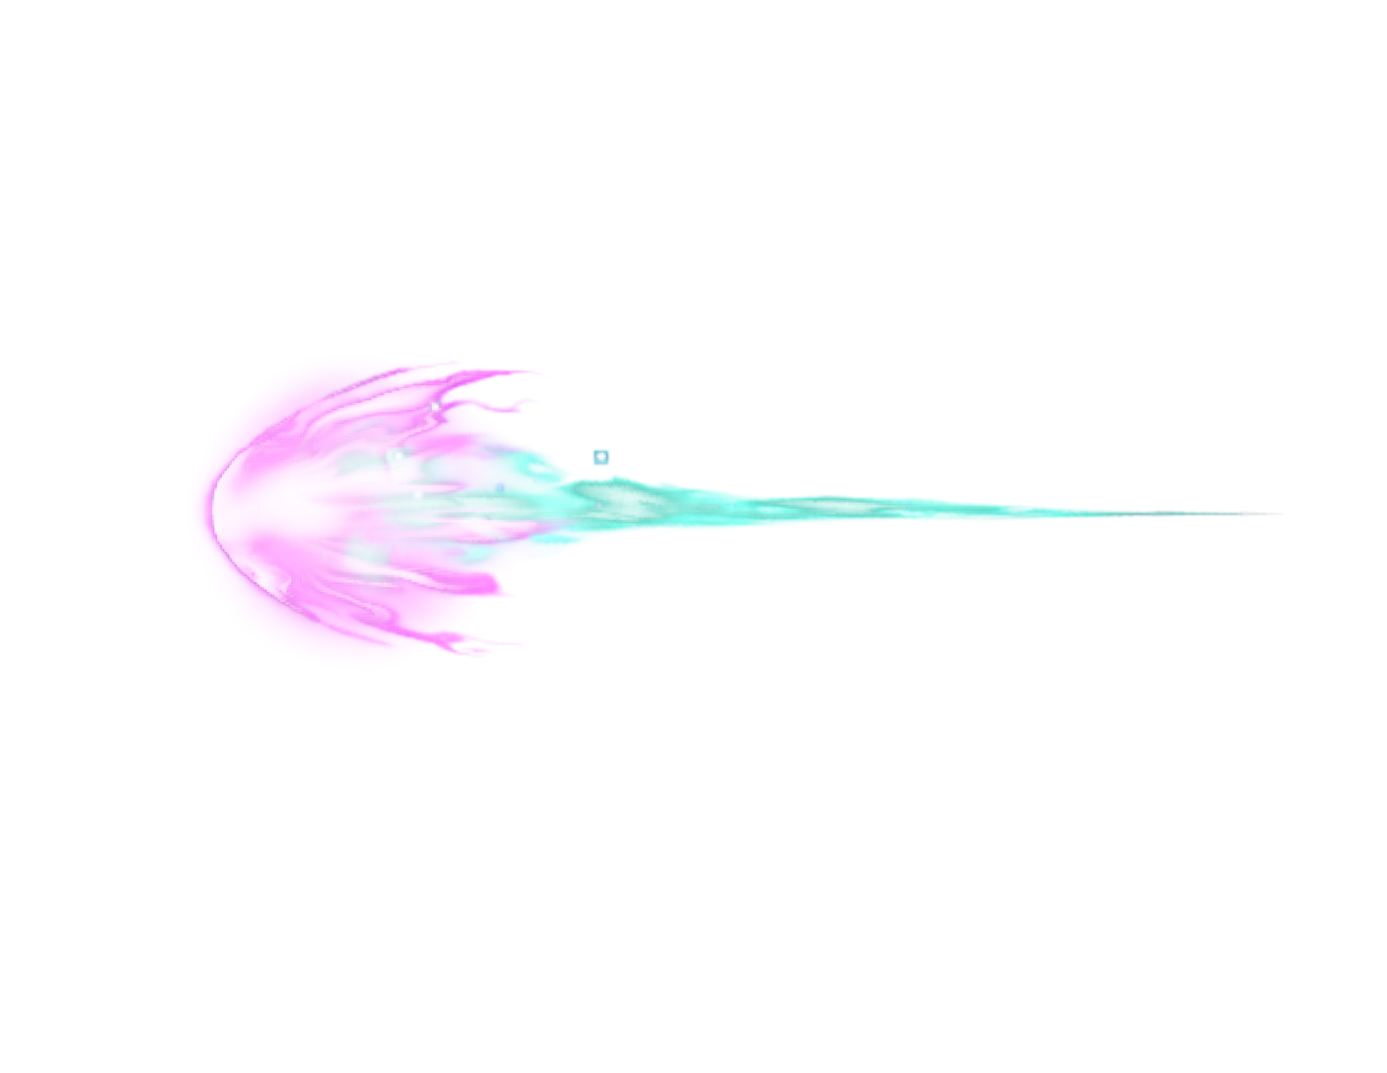
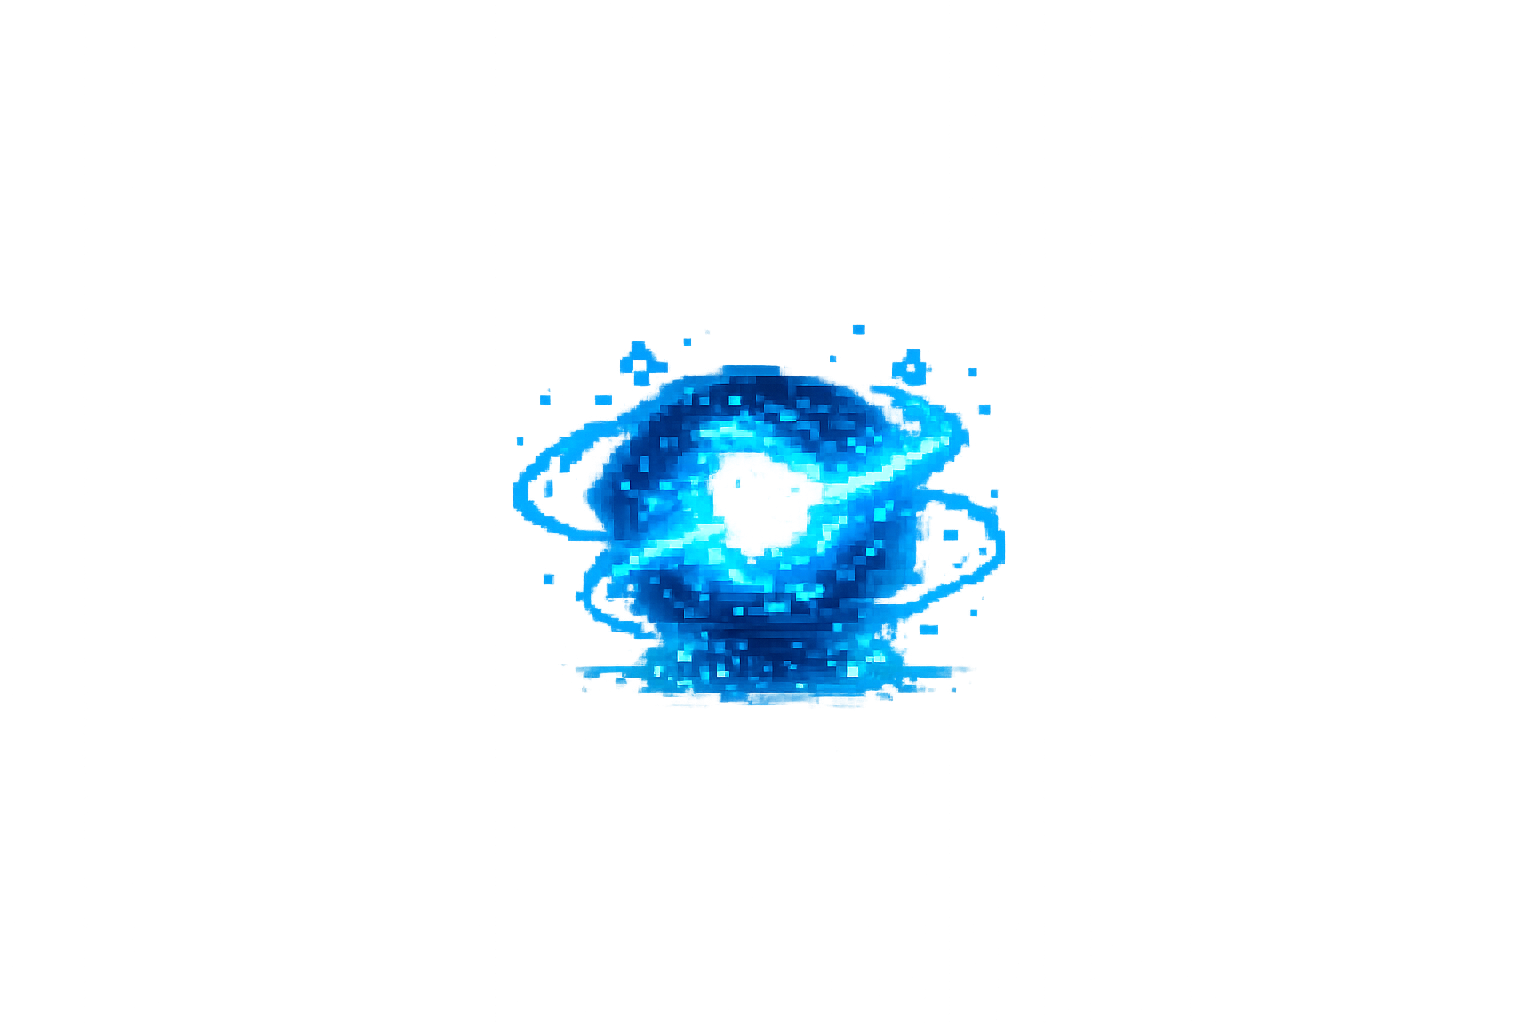
save and load

Changed region(s): [[0.124, 0.3125, 0.8681, 0.6875]]

diff --git a/src/main.cpp b/src/main.cpp
@@ -71,6 +71,21 @@ void drawTitleScreen(Texture2D mainScreen) {
     EndDrawing();
 }
 
+// Ve thong bao tam thoi sau khi save game
+void drawSaveStatusMessage(const char* message, float timer) {
+    if (message == nullptr || timer <= 0.0f) return;
+
+    int fontSize = 36;
+    int textWidth = MeasureText(message, fontSize);
+    int boxWidth = textWidth + 64;
+    int boxHeight = 72;
+    int boxX = (GetScreenWidth() - boxWidth) / 2;
+    int boxY = (GetScreenHeight() - boxHeight) / 2;
+
+    DrawRectangleRounded(Rectangle{(float)boxX, (float)boxY, (float)boxWidth, (float)boxHeight}, 0.25f, 8, Fade(BLACK, 0.72f));
+    DrawText(message, boxX + 32, boxY + 18, fontSize, WHITE);
+}
+
 // Ve phan world ben trong camera cua player
 void drawWorld(Player& player, Texture2D floorTexture, Texture2D wallsTexture, const vector<Entity*>& entities, const vector<Skill*>& skills, const vector<WeaponProjectile>& weaponProjectiles) {
     BeginMode2D(player.getCamera());
@@ -163,7 +178,7 @@ bool drawVictory(WaveManager& waveSystem, vector<Enemy*>& enemies, Player& playe
 void fireEnemyBullets(vector<Enemy*>& enemies, Player& player, vector<Bullet*>& bullets, vector<Entity*>& entities) {
     for (auto e : enemies) {
         if (e->getEnemyType() != 3 || !e->canShoot()) continue;
-        Bullet* bullet = new Bullet(e->getX(), e->getY(), player.getX(), player.getY(), e->getDamage());
+        Bullet* bullet = new Bullet(e->getX(), e->getCollisionCenterY(), player.getX(), player.getY(), e->getDamage());
         bullet->setIsEnemyBullet(true);
         bullets.push_back(bullet);
         entities.push_back(bullet);
@@ -235,6 +250,8 @@ int main() {
         bool gameStarted = false;
         bool showTitleScreen = true;
         const char* saveFile = "savegame.txt";
+        const char* saveStatusMessage = nullptr;
+        float saveStatusTimer = 0.0f;
 
         // Danh sach skill tong va inventory skill dang trang bi
         vector<Skill*> allSkills = {
@@ -262,6 +279,27 @@ int main() {
 
         // Vong lap game chinh
         while (!WindowShouldClose()) {
+        float frameDt = GetFrameTime();
+        if (saveStatusTimer > 0.0f) {
+            saveStatusTimer -= frameDt;
+            if (saveStatusTimer <= 0.0f) {
+                saveStatusTimer = 0.0f;
+                saveStatusMessage = nullptr;
+            }
+        }
+
+        if (IsKeyPressed(KEY_F9)) {
+            if (loadGame(saveFile, player, waveSystem, gameTimer, currentDiffID, shouldShowUpgrade, previousLevel, allWeapons, weaponInventory, currentWeapon, allSkills, skillInventory)) {
+                showTitleScreen = false;
+                gameStarted = true;
+                isPaused = false;
+                saveStatusMessage = "Loaded data !";
+            } else {
+                saveStatusMessage = "Failed to load data !";
+            }
+            saveStatusTimer = 2.5f;
+        }
+
         if (showTitleScreen) {
             if (IsKeyPressed(KEY_SPACE)) showTitleScreen = false;
             drawTitleScreen(mainScreenTexture);
@@ -282,17 +320,12 @@ int main() {
                 if (!gameStarted) continue;
             }
 
-            float dt = GetFrameTime();
+            float dt = frameDt;
 
             if (IsKeyPressed(KEY_F5)) {
-                saveGame(saveFile, player, waveSystem, gameTimer, currentDiffID, allWeapons, weaponInventory, currentWeapon, allSkills, skillInventory);
-            }
-
-            if (IsKeyPressed(KEY_F9)) {
-                if (loadGame(saveFile, player, waveSystem, gameTimer, currentDiffID, shouldShowUpgrade, previousLevel, allWeapons, weaponInventory, currentWeapon, allSkills, skillInventory)) {
-                    gameStarted = true;
-                    isPaused = false;
-                }
+                bool saved = saveGame(saveFile, player, waveSystem, gameTimer, currentDiffID, allWeapons, weaponInventory, currentWeapon, allSkills, skillInventory);
+                saveStatusMessage = saved ? "Saved data !" : "Failed to save data !";
+                saveStatusTimer = 2.5f;
             }
 
             if (updateUpgradeMenu(player, upgradeSystem, allSkills, skillInventory, allWeapons, weaponInventory, currentWeapon, floorTexture, wallsTexture, entities, weaponProjectiles)) continue;
@@ -351,7 +384,7 @@ int main() {
                 float hitboxRadius = waveSystem.getCurrentWaveNumber() == 20 ? 80.0f : 20.0f;
                 for (size_t j = 0; j < bullets.size(); j++) {
                     if (!bullets[j]->getIsEnemyBullet() &&
-                        Vector2Distance({bullets[j]->getX(), bullets[j]->getY()}, {enemies[i]->getX(), enemies[i]->getY()}) < hitboxRadius) {
+                        Vector2Distance({bullets[j]->getX(), bullets[j]->getY()}, {enemies[i]->getX(), enemies[i]->getCollisionCenterY()}) < hitboxRadius) {
                         enemies[i]->getDamage();
                         bullets[j]->setX(-1000);
                     }
@@ -363,7 +396,7 @@ int main() {
 
             // Enemy cham vao player se gay damage contact
             for (auto enemy : enemies) {
-                if (Vector2Distance({player.getX(), player.getY()}, {enemy->getX(), enemy->getY()}) < 30.0f) player.takeDamage(enemy->getDamage());
+                if (Vector2Distance({player.getX(), player.getY()}, {enemy->getX(), enemy->getCollisionCenterY()}) < 30.0f) player.takeDamage(enemy->getDamage());
             }
 
             // Dan enemy trung player se bi xoa khoi scene
@@ -454,6 +487,7 @@ int main() {
 
         DrawText(TextFormat("Score: %d", player.getScore()), 24, 144, 36, WHITE);
         DrawText("F5: Save   F9: Load", 24, 220, 24, LIGHTGRAY);
+        drawSaveStatusMessage(saveStatusMessage, saveStatusTimer);
         // Hien thi wave va thoi gian song sot
         int total = (int)waveSystem.getInternalTimer();
         int waveMins = (int)(total / 60);

diff --git a/src/enemy/Enemy.cpp b/src/enemy/Enemy.cpp
@@ -65,38 +65,47 @@ bool Enemy::canShoot(){
     return false;
 }
 
+float Enemy::getVisualYOffset() const {
+    if (enemyType == 0) return 52.0f;
+    if (enemyType == 1) return 36.0f;
+    if (enemyType == 2) return 78.0f;
+    if (enemyType == 3) return 48.0f;
+    return 0.0f;
+}
+
 void Enemy::draw() {
     if (texture !=nullptr){
         float frameWidth = (float)texture->width / frameCount;
         float renderWidth = 0.0f;
         float renderHeight = 0.0f;
+        float renderYOffset = getVisualYOffset();
         
         if (enemyType == 0) {         // Quái NORMAL
             renderWidth = 120.0f;
-            renderHeight = 200.0f;
+            renderHeight = 235.0f;
         } 
         else if (enemyType == 1) {    // Quái FAST
             renderWidth = 110.0f;
-            renderHeight = 110.0f;
+            renderHeight = 145.0f;
         } 
         else if (enemyType == 2) {    // Quái TANK
             renderWidth = 140.0f;
-            renderHeight = 300.0f;    
+            renderHeight = 345.0f;    
         } 
         else if (enemyType == 3) {    // Quái RANGED
             renderWidth = 120.0f;
-            renderHeight = 180.0f;
+            renderHeight = 220.0f;
         }
         // tạo cấu hình vùng ảnh
         Rectangle source = { frameWidth* 4.0f * currentFrame, 0.0f, frameWidth * rotation, (float)texture->height };
         // tạo cấu hình vùng va chạm
-        Rectangle dest = { x, y, renderWidth, renderHeight };
+        Rectangle dest = { x, y - renderYOffset, renderWidth, renderHeight };
         // thiết lập điểm gốc (tâm hình chữ nhật) để tính góc xoay từ tâm
         Vector2 origin = { renderWidth / 2.0f, renderHeight / 2.0f };
         // Vẽ
         DrawTexturePro(*texture, source, dest, origin, 0.0f, WHITE);
     }
-    DrawText(TextFormat("HP: %d", hp), x - 28, y - 38, 16, WHITE);
+    DrawText(TextFormat("HP: %d", hp), x - 28, y - getVisualYOffset() - 30, 16, WHITE);
 }
 
 void removeEnemy(std::vector<Entity*>& entities, std::vector<Enemy*>& enemies, int idx) {

diff --git a/src/weapon/weapon.cpp b/src/weapon/weapon.cpp
@@ -75,7 +75,7 @@ void Weapon::attack(Player& player, const std::vector<Enemy*>& enemies,
             // Hammer danh tat ca enemy trong tam can chien
             for (Enemy* enemy : enemies) {
                 if (!enemy) continue;
-                if (Vector2Distance(playerPos, {enemy->getX(), enemy->getY()}) <= stats.range) {
+                if (Vector2Distance(playerPos, {enemy->getX(), enemy->getCollisionCenterY()}) <= stats.range) {
                     enemy->takeDamage(totalDamage);
                     if (stats.doubleHit) enemy->takeDamage(totalDamage);
                 }
@@ -89,8 +89,8 @@ void Weapon::attack(Player& player, const std::vector<Enemy*>& enemies,
             for (Enemy* enemy : enemies) {
                 if (!enemy) continue;
                 if (shotsFired >= stats.count) break;
-                if (Vector2Distance(playerPos, {enemy->getX(), enemy->getY()}) <= stats.range) {
-                    Vector2 dir = NormalizeOrFallback({enemy->getX() - playerPos.x, enemy->getY() - playerPos.y});
+                if (Vector2Distance(playerPos, {enemy->getX(), enemy->getCollisionCenterY()}) <= stats.range) {
+                    Vector2 dir = NormalizeOrFallback({enemy->getX() - playerPos.x, enemy->getCollisionCenterY() - playerPos.y});
 
                     projectiles.push_back({playerPos, {dir.x * stats.speed, dir.y * stats.speed},
                                            2.0f, 10.0f, (float)totalDamage, PURPLE, 0, 0});
@@ -117,13 +117,14 @@ void Weapon::attack(Player& player, const std::vector<Enemy*>& enemies,
         case 3: {
             // Spell book ban dan no, ban kinh no luu trong angle
             Vector2 dir = NormalizeOrFallback({targetPosition.x - playerPos.x, targetPosition.y - playerPos.y});
+            constexpr float SPELL_BOOK_HITBOX_RADIUS = 16.0f;
 
             for (int i = 0; i < stats.count; i++) {
                 float angleOffset = (float)(i - stats.count / 2) * 10.0f;
                 if (stats.count % 2 == 0) angleOffset += 5.0f;
                 Vector2 velocity = Vector2Rotate(dir, angleOffset * DEG2RAD);
                 projectiles.push_back({playerPos, {velocity.x * stats.speed, velocity.y * stats.speed},
-                                       2.0f, 10.0f, (float)totalDamage, PURPLE, 2, stats.explosionRadius});
+                                       2.0f, SPELL_BOOK_HITBOX_RADIUS, (float)totalDamage, PURPLE, 2, stats.explosionRadius});
             }
             break;
         }
@@ -146,14 +147,14 @@ void updateProjectiles(std::vector<WeaponProjectile>& projectiles, std::vector<E
             // Projectile sat thuong se va cham voi enemy
             for (Enemy* enemy : enemies) {
                 if (!enemy) continue;
-                if (CheckCollisionCircles(projectile.position, projectile.radius, {enemy->getX(), enemy->getY()}, 10)) {
+                if (CheckCollisionCircles(projectile.position, projectile.radius, {enemy->getX(), enemy->getCollisionCenterY()}, 10)) {
                     enemy->takeDamage((int)projectile.damage);
 
                     if (projectile.type == 2) {
                         // Spell book co splash damage quanh diem no
                         for (Enemy* splashEnemy : enemies) {
                             if (!splashEnemy) continue;
-                            if (Vector2Distance(projectile.position, {splashEnemy->getX(), splashEnemy->getY()}) <= projectile.angle) {
+                            if (Vector2Distance(projectile.position, {splashEnemy->getX(), splashEnemy->getCollisionCenterY()}) <= projectile.angle) {
                                 splashEnemy->takeDamage((int)(projectile.damage / 2));
                             }
                         }
@@ -204,13 +205,13 @@ void drawProjectiles(const std::vector<WeaponProjectile>& projectiles) {
         } else if (projectile.type == 4) {
             // Ve knife projectile
             Rectangle source = {0.0f, 0.0f, (float)knifeTexture.width, (float)knifeTexture.height};
-            Rectangle dest = {projectile.position.x, projectile.position.y, projectile.radius * 4.0f, projectile.radius * 4.0f};
+            Rectangle dest = {projectile.position.x, projectile.position.y, projectile.radius * 5.5f, projectile.radius * 5.5f};
             float rotation = GetProjectileRotation(projectile);
-            DrawTexturePro(knifeTexture, source, dest, {projectile.radius * 2.0f, projectile.radius * 2.0f}, rotation, WHITE);
+            DrawTexturePro(knifeTexture, source, dest, {projectile.radius * 2.75f, projectile.radius * 2.75f}, rotation, WHITE);
         } else {
             // Mac dinh la dan cua magic wand
             Rectangle source = {0.0f, 0.0f, (float)magicTexture.width, (float)magicTexture.height};
-            Rectangle dest = {projectile.position.x, projectile.position.y, projectile.radius * 4.0f, projectile.radius * 4.0f};
+            Rectangle dest = {projectile.position.x, projectile.position.y, projectile.radius * 5.5f, projectile.radius * 5.5f};
             float rotation = GetProjectileRotation(projectile);
             DrawTexturePro(magicTexture, source, dest, {projectile.radius * 2.0f, projectile.radius * 2.0f}, rotation, WHITE);
         }

diff --git a/src/skill/Skill.cpp b/src/skill/Skill.cpp
@@ -85,7 +85,7 @@ Enemy* Skill::findNearestEnemy(const std::vector<Enemy*>& enemies) {
     float minD = 9999.0f;
     for (Enemy* enemy : enemies) {
         if (!enemy) continue;
-        float d = Vector2Distance({player->getX(), player->getY()}, {enemy->getX(), enemy->getY()});
+        float d = Vector2Distance({player->getX(), player->getY()}, {enemy->getX(), enemy->getCollisionCenterY()});
         if (d < minD) {
             minD = d;
             nearest = enemy;
@@ -152,7 +152,7 @@ void Skill::triggerLaser(std::vector<Enemy*>& enemies) {
     Enemy* target = findNearestEnemy(enemies);
     if (!target) return;
 
-    laser_direction = NormalizeOrFallback(Vector2Subtract({target->getX(), target->getY()}, {x, y}));
+    laser_direction = NormalizeOrFallback(Vector2Subtract({target->getX(), target->getCollisionCenterY()}, {x, y}));
     is_laser_active = true;
     laser_timer = 0.2f;
     laser_cooldown_timer = stats.cooldown;
@@ -161,12 +161,12 @@ void Skill::triggerLaser(std::vector<Enemy*>& enemies) {
     for (Enemy* enemy : enemies) {
         if (!enemy) continue;
         Vector2 endPos = Vector2Add({x, y}, Vector2Scale(laser_direction, stats.range));
-        if (CheckCollisionCircleLine({enemy->getX(), enemy->getY()}, 20, {x, y}, endPos)) {
+        if (CheckCollisionCircleLine({enemy->getX(), enemy->getCollisionCenterY()}, 20, {x, y}, endPos)) {
             enemy->takeDamage(stats.damage);
         }
         if (stats.special) {
             Vector2 endPosRev = Vector2Add({x, y}, Vector2Scale(laser_direction, -stats.range));
-            if (CheckCollisionCircleLine({enemy->getX(), enemy->getY()}, 20, {x, y}, endPosRev)) {
+            if (CheckCollisionCircleLine({enemy->getX(), enemy->getCollisionCenterY()}, 20, {x, y}, endPosRev)) {
                 enemy->takeDamage(stats.damage);
             }
         }
@@ -188,7 +188,7 @@ void Skill::triggerThunder(std::vector<Enemy*>& enemies) {
         if (!target) continue;
         target->takeDamage(stats.damage);
         // Luu vi tri de ve cot set giang xuong
-        thunderPositions.push_back({target->getX(), target->getY()});
+        thunderPositions.push_back({target->getX(), target->getCollisionCenterY()});
         tempEnemies.erase(tempEnemies.begin() + randomIndex);
     }
 
@@ -250,7 +250,7 @@ void Skill::triggerShieldCollision(std::vector<Enemy*>& enemies) {
         }
         // 5. VA CHẠM: Dùng stats.damage từ Level
         for (Enemy* enemy : enemies) {
-            if (CheckCollisionCircles(s.pos, s.radius, {enemy->getX(), enemy->getY()}, 20)) {
+            if (CheckCollisionCircles(s.pos, s.radius, {enemy->getX(), enemy->getCollisionCenterY()}, 20)) {
                 enemy->takeDamage(stats.damage / 10 + 1); 
             }
         }
@@ -265,7 +265,7 @@ void Skill::triggerHammerCollision(std::vector<Enemy*>& enemies) {
         if (target) {
             hammer_timer = 0.0f;
             // Hướng gốc từ Player thẳng tới quái
-            Vector2 baseDir = NormalizeOrFallback(Vector2Subtract({target->getX(), target->getY()}, {player->getX(), player->getY()}));
+            Vector2 baseDir = NormalizeOrFallback(Vector2Subtract({target->getX(), target->getCollisionCenterY()}, {player->getX(), player->getY()}));
             
             for (int i = 0; i < stats.count; i++) {
                 // TÍNH TOÁN GÓC LỆCH: Để búa tỏa ra hình quạt
@@ -313,7 +313,7 @@ void Skill::triggerHammerCollision(std::vector<Enemy*>& enemies) {
         for (Enemy* enemy : enemies) {
             if (!enemy) continue;
             if (h.lastHitEnemy != (void*)enemy) {
-                if (CheckCollisionCircles(h.pos, 35, {enemy->getX(), enemy->getY()}, 20)) {
+                if (CheckCollisionCircles(h.pos, 35, {enemy->getX(), enemy->getCollisionCenterY()}, 20)) {
                     enemy->takeDamage(stats.damage);
                     h.lastHitEnemy = (void*)enemy;
                 }
@@ -333,7 +333,7 @@ void Skill::triggerShurikenCollision(std::vector<Enemy*>& enemies) {
         for (Enemy* enemy : enemies) {
             if (!enemy) continue;
             // Check va cham
-            if (CheckCollisionCircles(pos, stats.effectRadius, {enemy->getX(), enemy->getY()}, 20)) {
+            if (CheckCollisionCircles(pos, stats.effectRadius, {enemy->getX(), enemy->getCollisionCenterY()}, 20)) {
                 enemy->takeDamage(stats.damage);
             }
         }

diff --git a/src/player/Player.cpp b/src/player/Player.cpp
@@ -150,13 +150,13 @@ void Player::draw() {
     float frameWidth = (float)currentTexture.width;
     float frameHeight = (float)currentTexture.height;
     int currentFrame = 0;
-    float drawWidth = 80.0f;
-    float drawHeight = 80.0f;
+    float drawWidth = 110.0f;
+    float drawHeight = 110.0f;
 
     if (isWalking) {
         frameWidth = (float)currentTexture.width / 8.0f;
         currentFrame = walkFrame;
-        drawHeight = 200.0f;
+        drawHeight = 250.0f;
         drawWidth = drawHeight * (frameWidth / frameHeight);
     }
 
@@ -166,6 +166,6 @@ void Player::draw() {
     }
     Rectangle dest = {x - drawWidth / 2.0f, y - drawHeight / 2.0f, drawWidth, drawHeight};
     DrawTexturePro(currentTexture, source, dest, {0.0f, 0.0f}, 0.0f, WHITE);
-    DrawText(TextFormat("HP: %d/%d", hp, maxHp), x - 45, y - 54, 18, WHITE);
-    DrawText(TextFormat("LV: %d", level), x - 27, y - 76, 18, YELLOW);
+    DrawText(TextFormat("HP: %d/%d", hp, maxHp), x - 45, y - 63, 18, WHITE);
+    DrawText(TextFormat("LV: %d", level), x - 27, y - 85, 18, YELLOW);
 }

diff --git a/src/enemy/Enemy.h b/src/enemy/Enemy.h
@@ -34,6 +34,8 @@ public:
     void update() override;
     void draw() override;
     bool canShoot();
+    virtual float getVisualYOffset() const;
+    float getCollisionCenterY() const { return y - getVisualYOffset(); }
     
     // Getters
     int getHp() const { return hp; }

diff --git a/src/boss/boss.h b/src/boss/boss.h
@@ -21,6 +21,7 @@ public:
     void update() override;
     void draw() override;
     void takeDamage(int damage) override;
+    float getVisualYOffset() const override { return 0.0f; }
     
 }; 
 